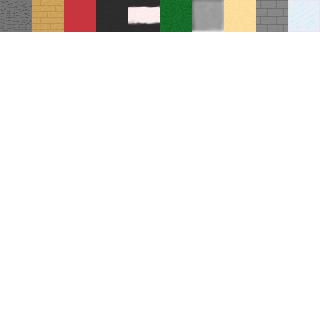
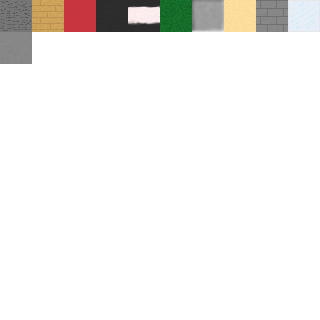
added a player and stuff

Changed region(s): [[0.0, 0.0938, 0.125, 0.2188]]

diff --git a/scripts/main.js b/scripts/main.js
@@ -17,7 +17,7 @@ playground({
     smoothing: false,
     create: function(){
         this.loadImage("title", "shadyguy");
-        this.loadAtlas("floor");
+        this.loadAtlas("floor", "player");
 
         for(var k in LEAKYWEEK.SCENARIOS) {
             this.loadImage(LEAKYWEEK.SCENARIOS[k].thumbnail);
@@ -140,7 +140,7 @@ LEAKYWEEK.conversation = {
 
 LEAKYWEEK.map = {
     enter: function() {
-        this.collisionTextures = [6,8,9];
+        this.collisionTextures = [8,9,10];
         var that = this;
         this.map.entities.forEach(function(entity){
             entity.speed = 0;
@@ -148,12 +148,18 @@ LEAKYWEEK.map = {
             entity.x = entity.startX * that.map.tileSize;
             entity.y = entity.startY * that.map.tileSize;
         });
+        this.offset = {
+            x: 300 - this.map.entities[this.map.me].x,
+            y: 450 - this.map.entities[this.map.me].y
+        }
     },
     step: function(dt) {
         for(var i = 0; i < this.map.entities.length; i++){
             var entity = this.map.entities[i];
             entity.x += Math.sin(entity.direction/2*Math.PI)*entity.speed*entity.maxSpeed*dt;
             entity.y += -1 * Math.cos(entity.direction/2*Math.PI)*entity.speed*entity.maxSpeed*dt;
+            entity.current = entity.speed > 0 ? ((this.app.lifetime % 0.5 / 0.5) * (this.app.atlases[entity.atlas].frames.length/4) | 0) + entity.direction * 4 : 0 + entity.direction * 4;
+            
             var that = this;
             var ts = this.map.tileSize,
                 ex1 = entity.x,
@@ -196,10 +202,16 @@ LEAKYWEEK.map = {
                 }
             });
         }
+        this.offset = {
+            x: 450 - this.map.entities[this.map.me].x,
+            y: 300 - this.map.entities[this.map.me].y
+        }
     },
     render: function() {
         var map = this.map;
         var ts = map.tileSize;
+        var ox = this.offset.x;
+        var oy = this.offset.y;
         var tile, entity;
         this.app.layer.clear('#333');
         if(this.map.background) this.app.layer.drawImage(this.map.background, 0, 0);
@@ -207,7 +219,7 @@ LEAKYWEEK.map = {
             for(var j = 0; j < map.floor[i].length; j++){
                 tile = map.floor[i][j];
                 if(tile.f||tile.f===0){
-                    this.app.layer.stars(j*ts, i*ts, 0.5, 0.5, (tile.rotation||0) * Math.PI / 2, 1) 
+                    this.app.layer.stars(j*ts+ox, i*ts+oy, 0.5, 0.5, (tile.rotation||0) * Math.PI / 2, 1) 
                         .drawAtlasFrame(this.app.atlases.floor, tile.f, 0, 0)
                         .restore();
                 }
@@ -219,7 +231,7 @@ LEAKYWEEK.map = {
             for(var j = 0; j < map.objects[i].length; j++){
                 tile = map.objects[i][j];
                 if(tile.f||tile.f===0){
-                    this.app.layer.stars(j*ts, i*ts, 0.5, 0.5, (tile.rotation||0) * Math.PI / 2, 1) 
+                    this.app.layer.stars(j*ts+ox, i*ts+oy, 0.5, 0.5, (tile.rotation||0) * Math.PI / 2, 1) 
                         .drawAtlasFrame(this.app.atlases.objects, tile.f, 0, 0)
                         .restore();
                 }
@@ -227,8 +239,8 @@ LEAKYWEEK.map = {
         }
         for(var k = 0; k < map.entities.length; k++){
             entity = map.entities[k];
-            this.app.layer.stars(entity.x, entity.y, 0.5, 0.5, (entity.direction||0) * Math.PI/2, 1)
-                .drawAtlasFrame(this.app.atlases.floor, entity.f, 0, 0)
+            this.app.layer.stars(entity.x+ox, entity.y+oy, 0.5, 0.5, (entity.rotation||0) * Math.PI/2, 1)
+                .drawAtlasFrame(this.app.atlases[entity.atlas], entity.current, 0, 0)
                 .restore();
         }
     },

diff --git a/scenarios/example.js b/scenarios/example.js
@@ -8,16 +8,16 @@ LEAKYWEEK.addScenario({
         "monday": {
             tileSize: 32,
             floor: [
-                [{   },{   },{   },{f:6},{f:6},{f:6},{f:6},{f:6},{f:6},{f:6},{f:6},{f:6},{f:6},{f:6},{f:6}],
-                [{   },{   },{   },{f:6},{f:8},{f:8},{f:8},{f:8},{f:8},{f:8},{f:8},{f:8},{f:8},{f:8},{f:6}],
-                [{   },{   },{   },{f:6},{f:1},{f:1},{f:1},{f:1},{f:1},{f:1},{f:1},{f:1},{f:1},{f:1},{f:6}],
-                [{   },{   },{   },{f:6},{f:1},{f:1},{f:1},{f:1},{f:1},{f:1},{f:1},{f:1},{f:1},{f:1},{f:6}],
-                [{f:6},{f:6},{f:6},{f:6},{f:1},{f:2},{f:2},{f:2},{f:2},{f:2},{f:2},{f:1},{f:1},{f:1},{f:6}],
-                [{f:6},{f:8},{f:8},{f:8},{f:1},{f:2},{f:2},{f:2},{f:2},{f:2},{f:2},{f:1},{f:1},{f:1},{f:6}],
-                [{f:6},{f:1},{f:1},{f:1},{f:1},{f:2},{f:2},{f:2},{f:2},{f:2},{f:2},{f:1},{f:1},{f:1},{f:6}],
-                [{f:6},{f:1},{f:1},{f:1},{f:1},{f:1},{f:1},{f:1},{f:1},{f:1},{f:1},{f:1},{f:1},{f:1},{f:6}],
-                [{f:6},{f:1},{f:1},{f:1},{f:1},{f:1},{f:1},{f:1},{f:1},{f:1},{f:1},{f:1},{f:1},{f:1},{f:6}],
-                [{f:6},{f:6},{f:6},{f:6},{f:6},{f:6},{f:6},{f:6},{f:6},{f:6},{f:6},{f:6},{f:6},{f:6},{f:6}]
+                [{    },{    },{    },{f:10},{f:10},{f:10},{f:10},{f:10},{f:10},{f:10},{f:10},{f:10},{f:10},{f:10},{f:10}],
+                [{    },{    },{    },{f:10},{f: 8},{f: 8},{f: 8},{f: 8},{f: 8},{f: 8},{f: 8},{f: 8},{f: 8},{f: 8},{f:10}],
+                [{    },{    },{    },{f:10},{f: 1},{f: 1},{f: 1},{f: 1},{f: 1},{f: 1},{f: 1},{f: 1},{f: 1},{f: 1},{f:10}],
+                [{    },{    },{    },{f:10},{f: 1},{f: 1},{f: 1},{f: 1},{f: 1},{f: 1},{f: 1},{f: 1},{f: 1},{f: 1},{f:10}],
+                [{f:10},{f:10},{f:10},{f:10},{f: 1},{f: 2},{f: 2},{f: 2},{f: 2},{f: 2},{f: 2},{f: 1},{f: 1},{f: 1},{f:10}],
+                [{f:10},{f: 8},{f: 8},{f: 8},{f: 1},{f: 2},{f: 2},{f: 2},{f: 2},{f: 2},{f: 2},{f: 1},{f: 1},{f: 1},{f:10}],
+                [{f:10},{f: 1},{f: 1},{f: 1},{f: 1},{f: 2},{f: 2},{f: 2},{f: 2},{f: 2},{f: 2},{f: 1},{f: 1},{f: 1},{f:10}],
+                [{f:10},{f: 1},{f: 1},{f: 1},{f: 1},{f: 1},{f: 1},{f: 1},{f: 1},{f: 1},{f: 1},{f: 1},{f: 1},{f: 1},{f:10}],
+                [{f:10},{f: 1},{f: 1},{f: 1},{f: 1},{f: 1},{f: 1},{f: 1},{f: 1},{f: 1},{f: 1},{f: 1},{f: 1},{f: 1},{f:10}],
+                [{f:10},{f:10},{f:10},{f:10},{f:10},{f:10},{f:10},{f:10},{f:10},{f:10},{f:10},{f:10},{f:10},{f:10},{f:10}]
             ],
             objects: [],
             entities: [
@@ -25,7 +25,8 @@ LEAKYWEEK.addScenario({
                     startX: 10,
                     startY: 4,
                     maxSpeed: 200,
-                    f: 0
+                    f: 0,
+                    atlas: 'player'
                 }
             ],
             me: 0,
